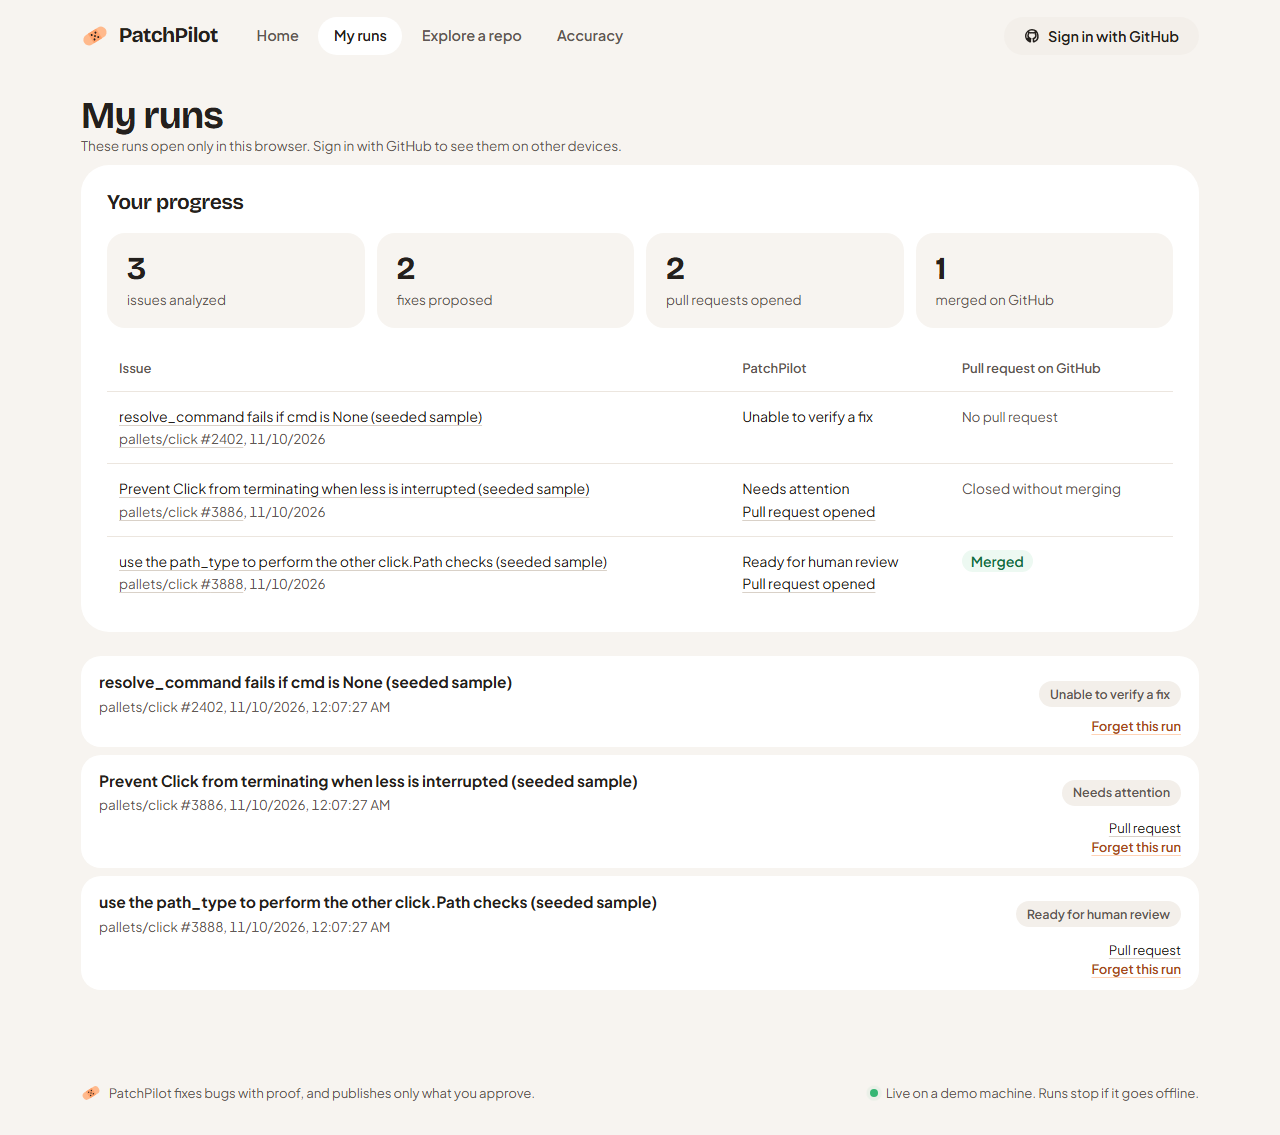
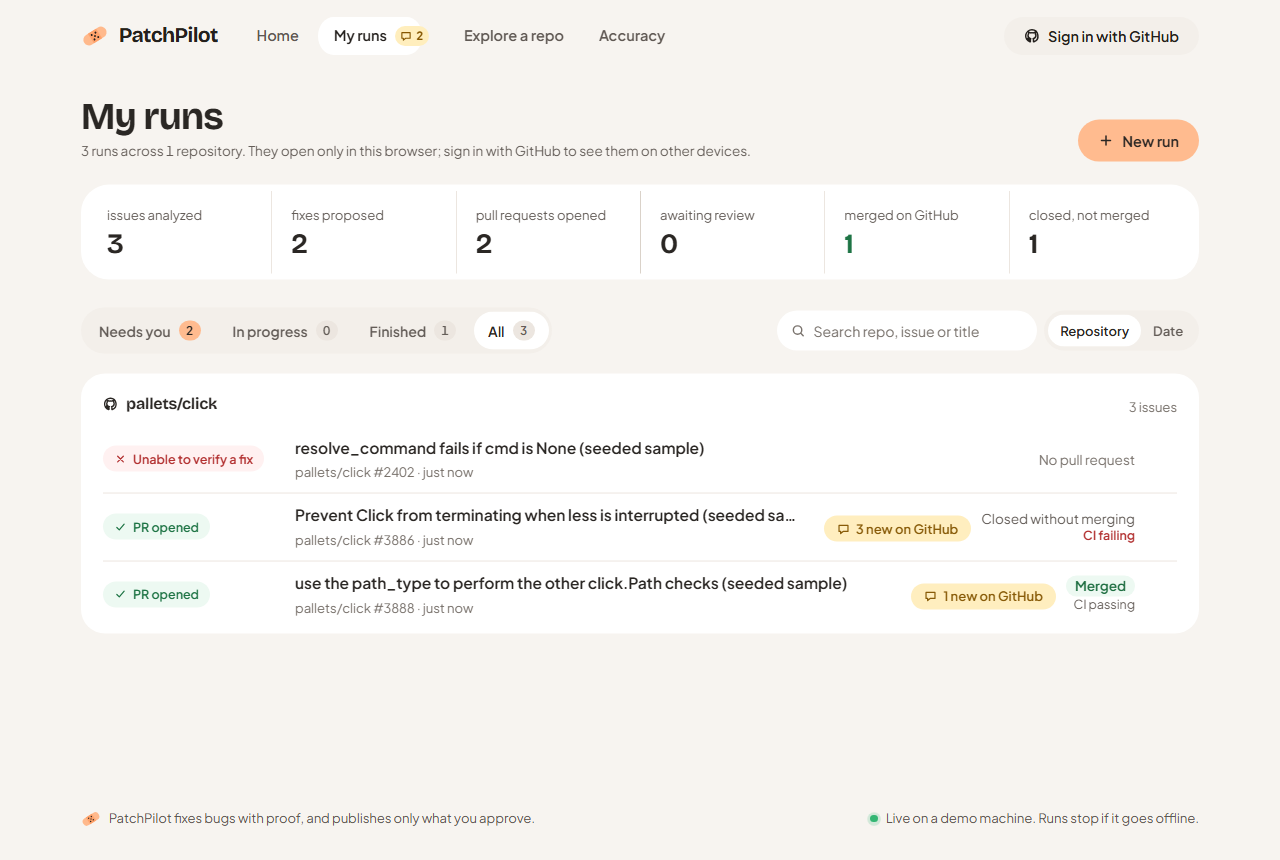
e2e: progress waits for GitHub status; log

diff --git a/tests/e2e/progress.spec.ts b/tests/e2e/progress.spec.ts
@@ -11,6 +11,7 @@ async function open(page, base: string) {
   await page.context().addCookies([{ name: "pp_sid", value: token, url: base }]);
   await page.goto(`${base}/my-runs?view=all`);
   await expect(page.getByRole("heading", { name: "Your progress" })).toBeVisible();
+  await expect(page.locator('.progress[aria-busy="false"]')).toBeVisible({ timeout: 30_000 });   // counts show skeletons while GitHub is read
 }
 const stat = (page, label: string) => page.locator(".progress .stat", { hasText: label }).locator("strong");
 

diff --git a/LEARNING.md b/LEARNING.md
@@ -335,3 +335,4 @@ Every session appends here after every event: a step started or finished, a deci
 - [2026-11-11 05:16 UTC] A EVENT: second search for test issues (about 35 checked across 30 small libs). Only jaraco/path#263 passed every check (open, unassigned, its only PR closed unmerged by its own author, G0 READY, PR policy all). Pallets (click/jinja/werkzeug) and jsonschema are collaborators_only; nearly every fresh bug elsewhere already has an open PR; faker#2448 isn't a bug (valid checksum, fake bank code). LESSON: the scarce resource is unclaimed bugs, so PatchPilot's Explore should filter by PR policy and by cross-referenced PRs, open or merged.
 - [2026-11-11 05:28 UTC] A MERGED #127 (contracts v0.10, human-approved): G0 warns already_fixed (a merged PR references the issue: timeline, recent closed list, or search API, with a real reference only) and prs_collaborators_only; Explore matches open and merged PRs and marks collaborators-only repos unsupported. Root cause of Explore's misses: the fine-grained GITHUB_READ_TOKEN gets EMPTY issue timelines (an unauthenticated read shows the cross-reference). Live check: more-itertools#1268 → ALREADY_ADDRESSED/already_fixed; jsonschema#1589 → prs_collaborators_only; jaraco/path#263 still READY; Explore pyparsing now empty (all claimed), jsonschema unsupported. LESSON: a filtered timeline looks like 'no events'; never trust one source for existing work.
 - [2026-11-11 06:37 UTC] A DECISION (human): D (Sarthak) owns the GCP deployment and the demo video. A helps with deployment on request and focuses on making the demo stronger. Handoff: docs/handoff/gcp-deploy.md (the free e2-micro is too small for sandboxes; a new URL needs its own OAuth app; the laptop stays the fallback until cutover checks pass). LESSON: hand over a deploy with its cutover checks and a live fallback, not just the scripts.
+- [2026-11-11 08:10 UTC] A EVENT: My runs reorganised (human: 'an endless list of each run'): lanes Needs you / In progress / Finished / All, search, group by repository or date, repeat runs of one issue folded under the newest, one progress strip (adds awaiting review and closed, not merged) instead of a second table. 92 real runs → 27 repo groups, 5 issues each until 'Show all'. progress.spec + access/pr-feedback/fixtures e2e pass on a test-only API (PP_DB=e2e.db, separate worktree). LESSON: a list that repeats one issue per retry reads as clutter; fold by the real identity (repo#number), not by run.
